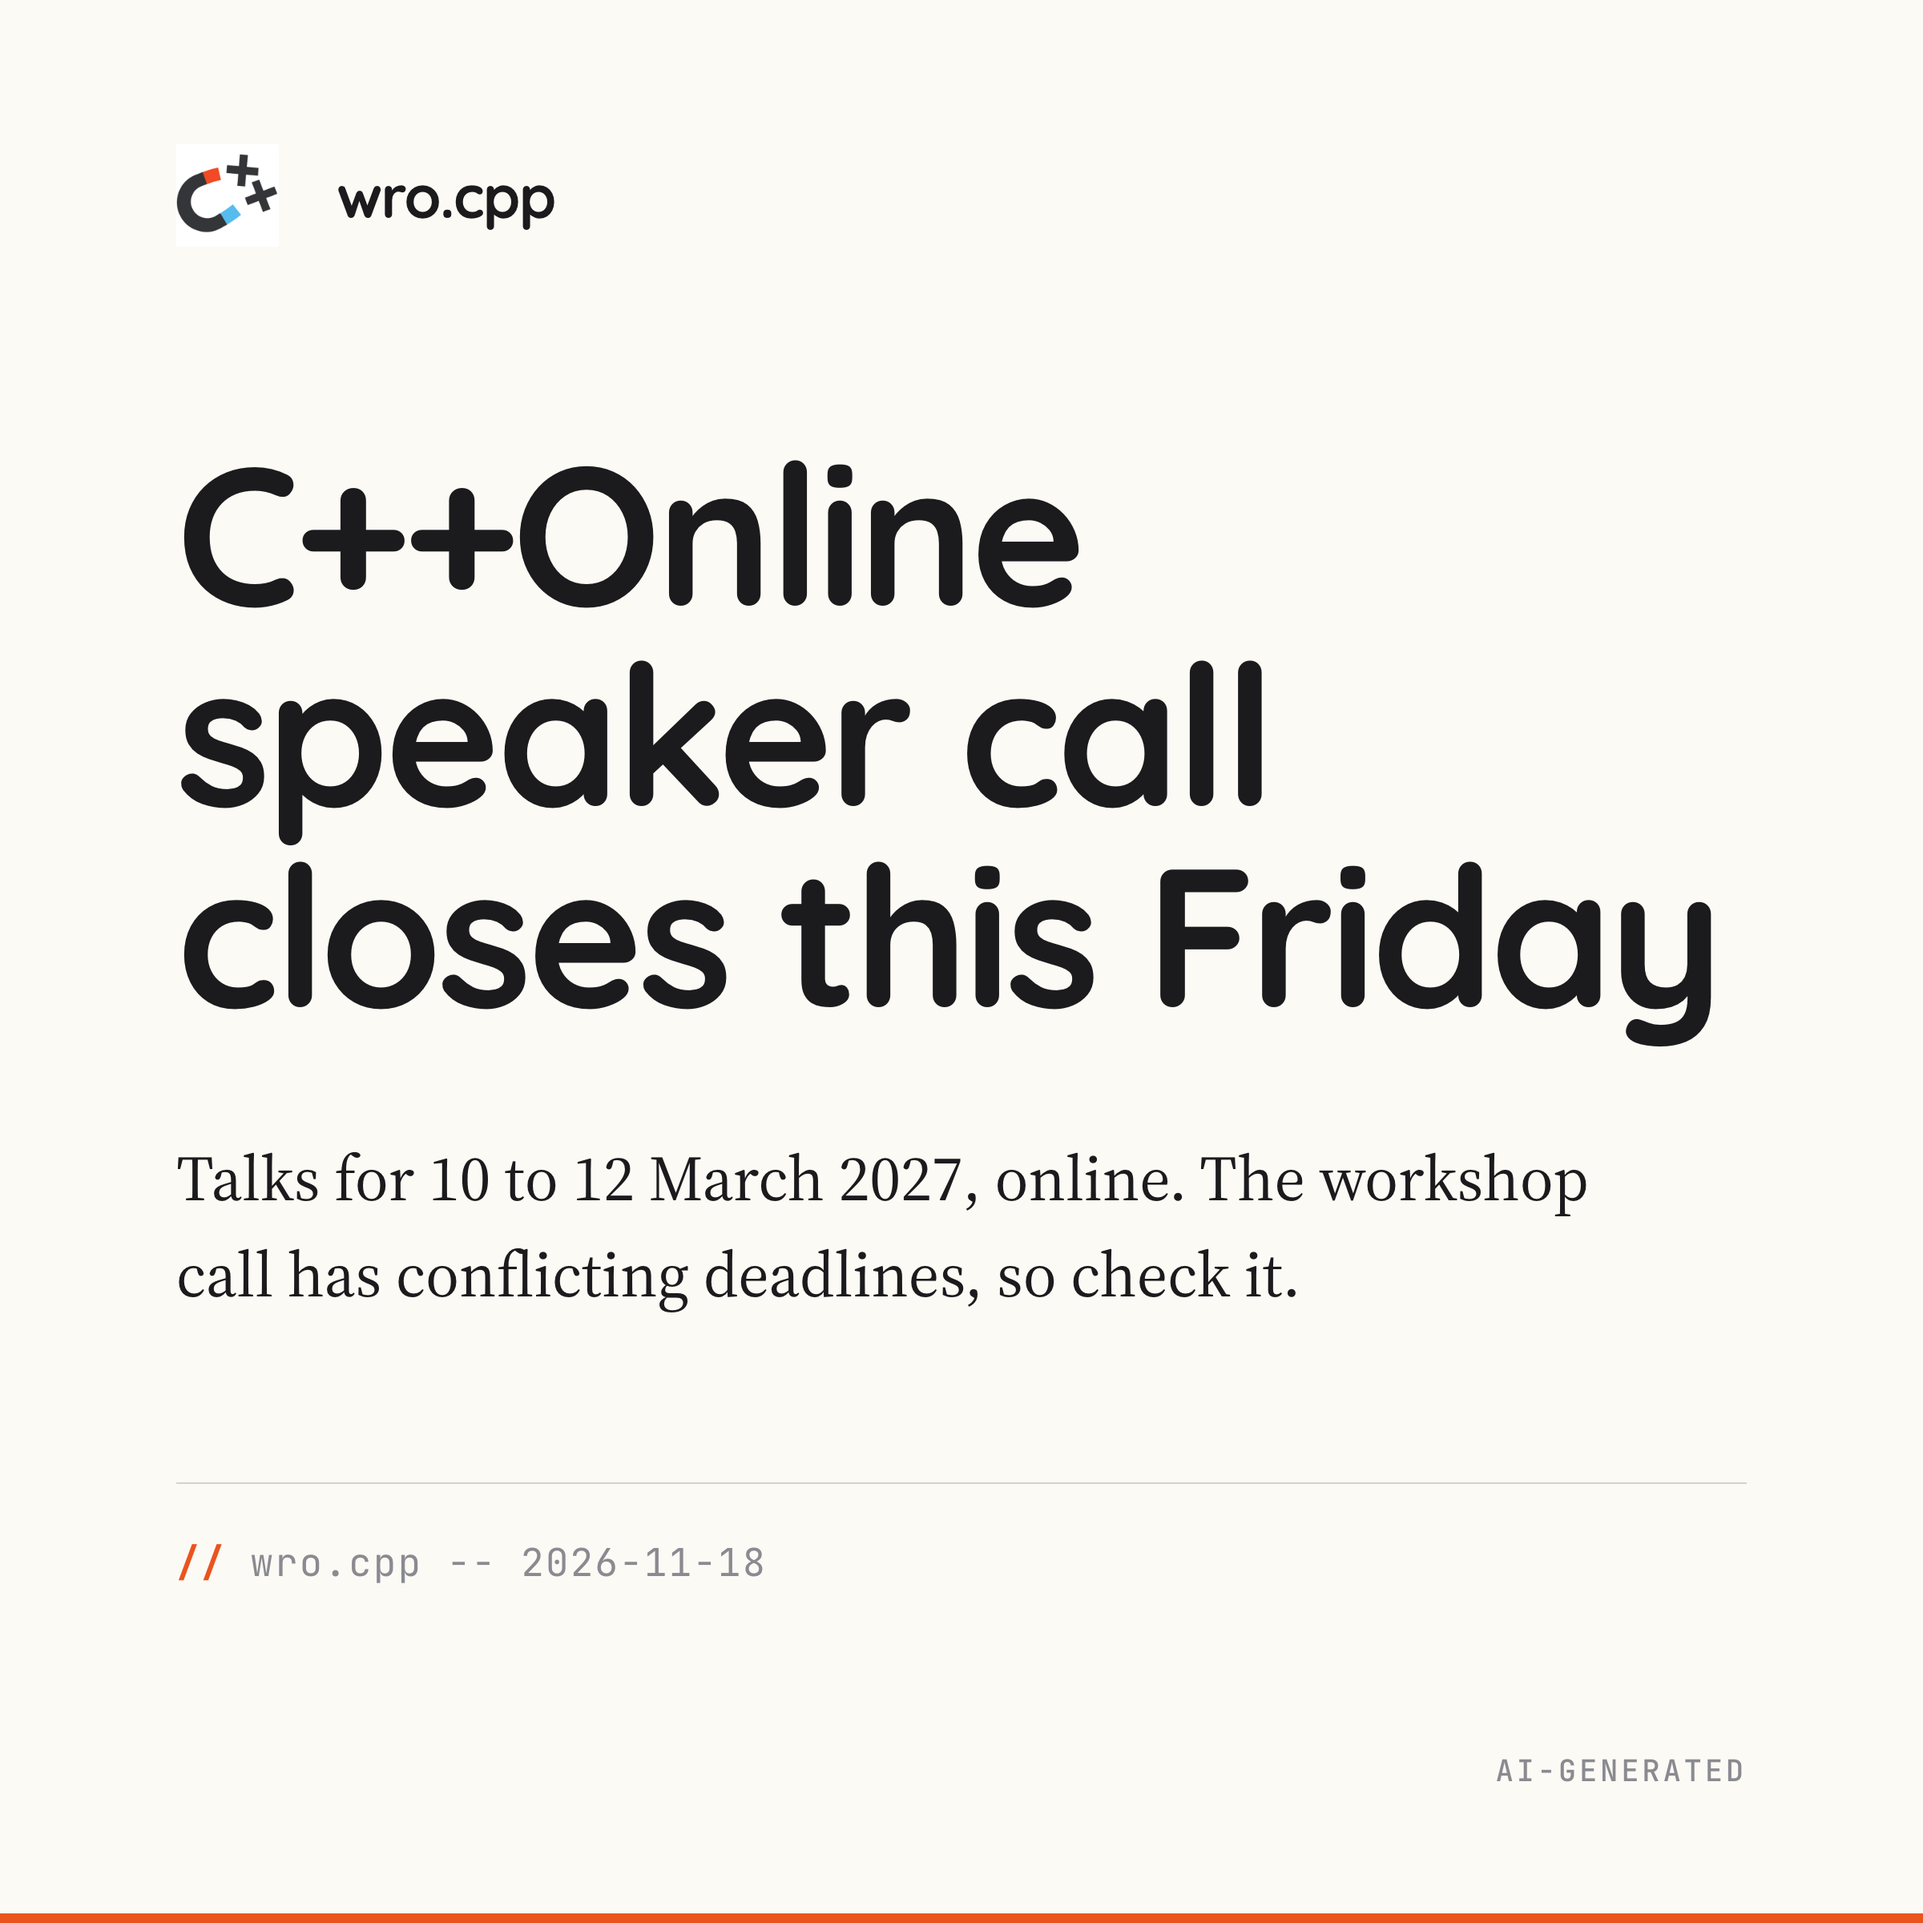
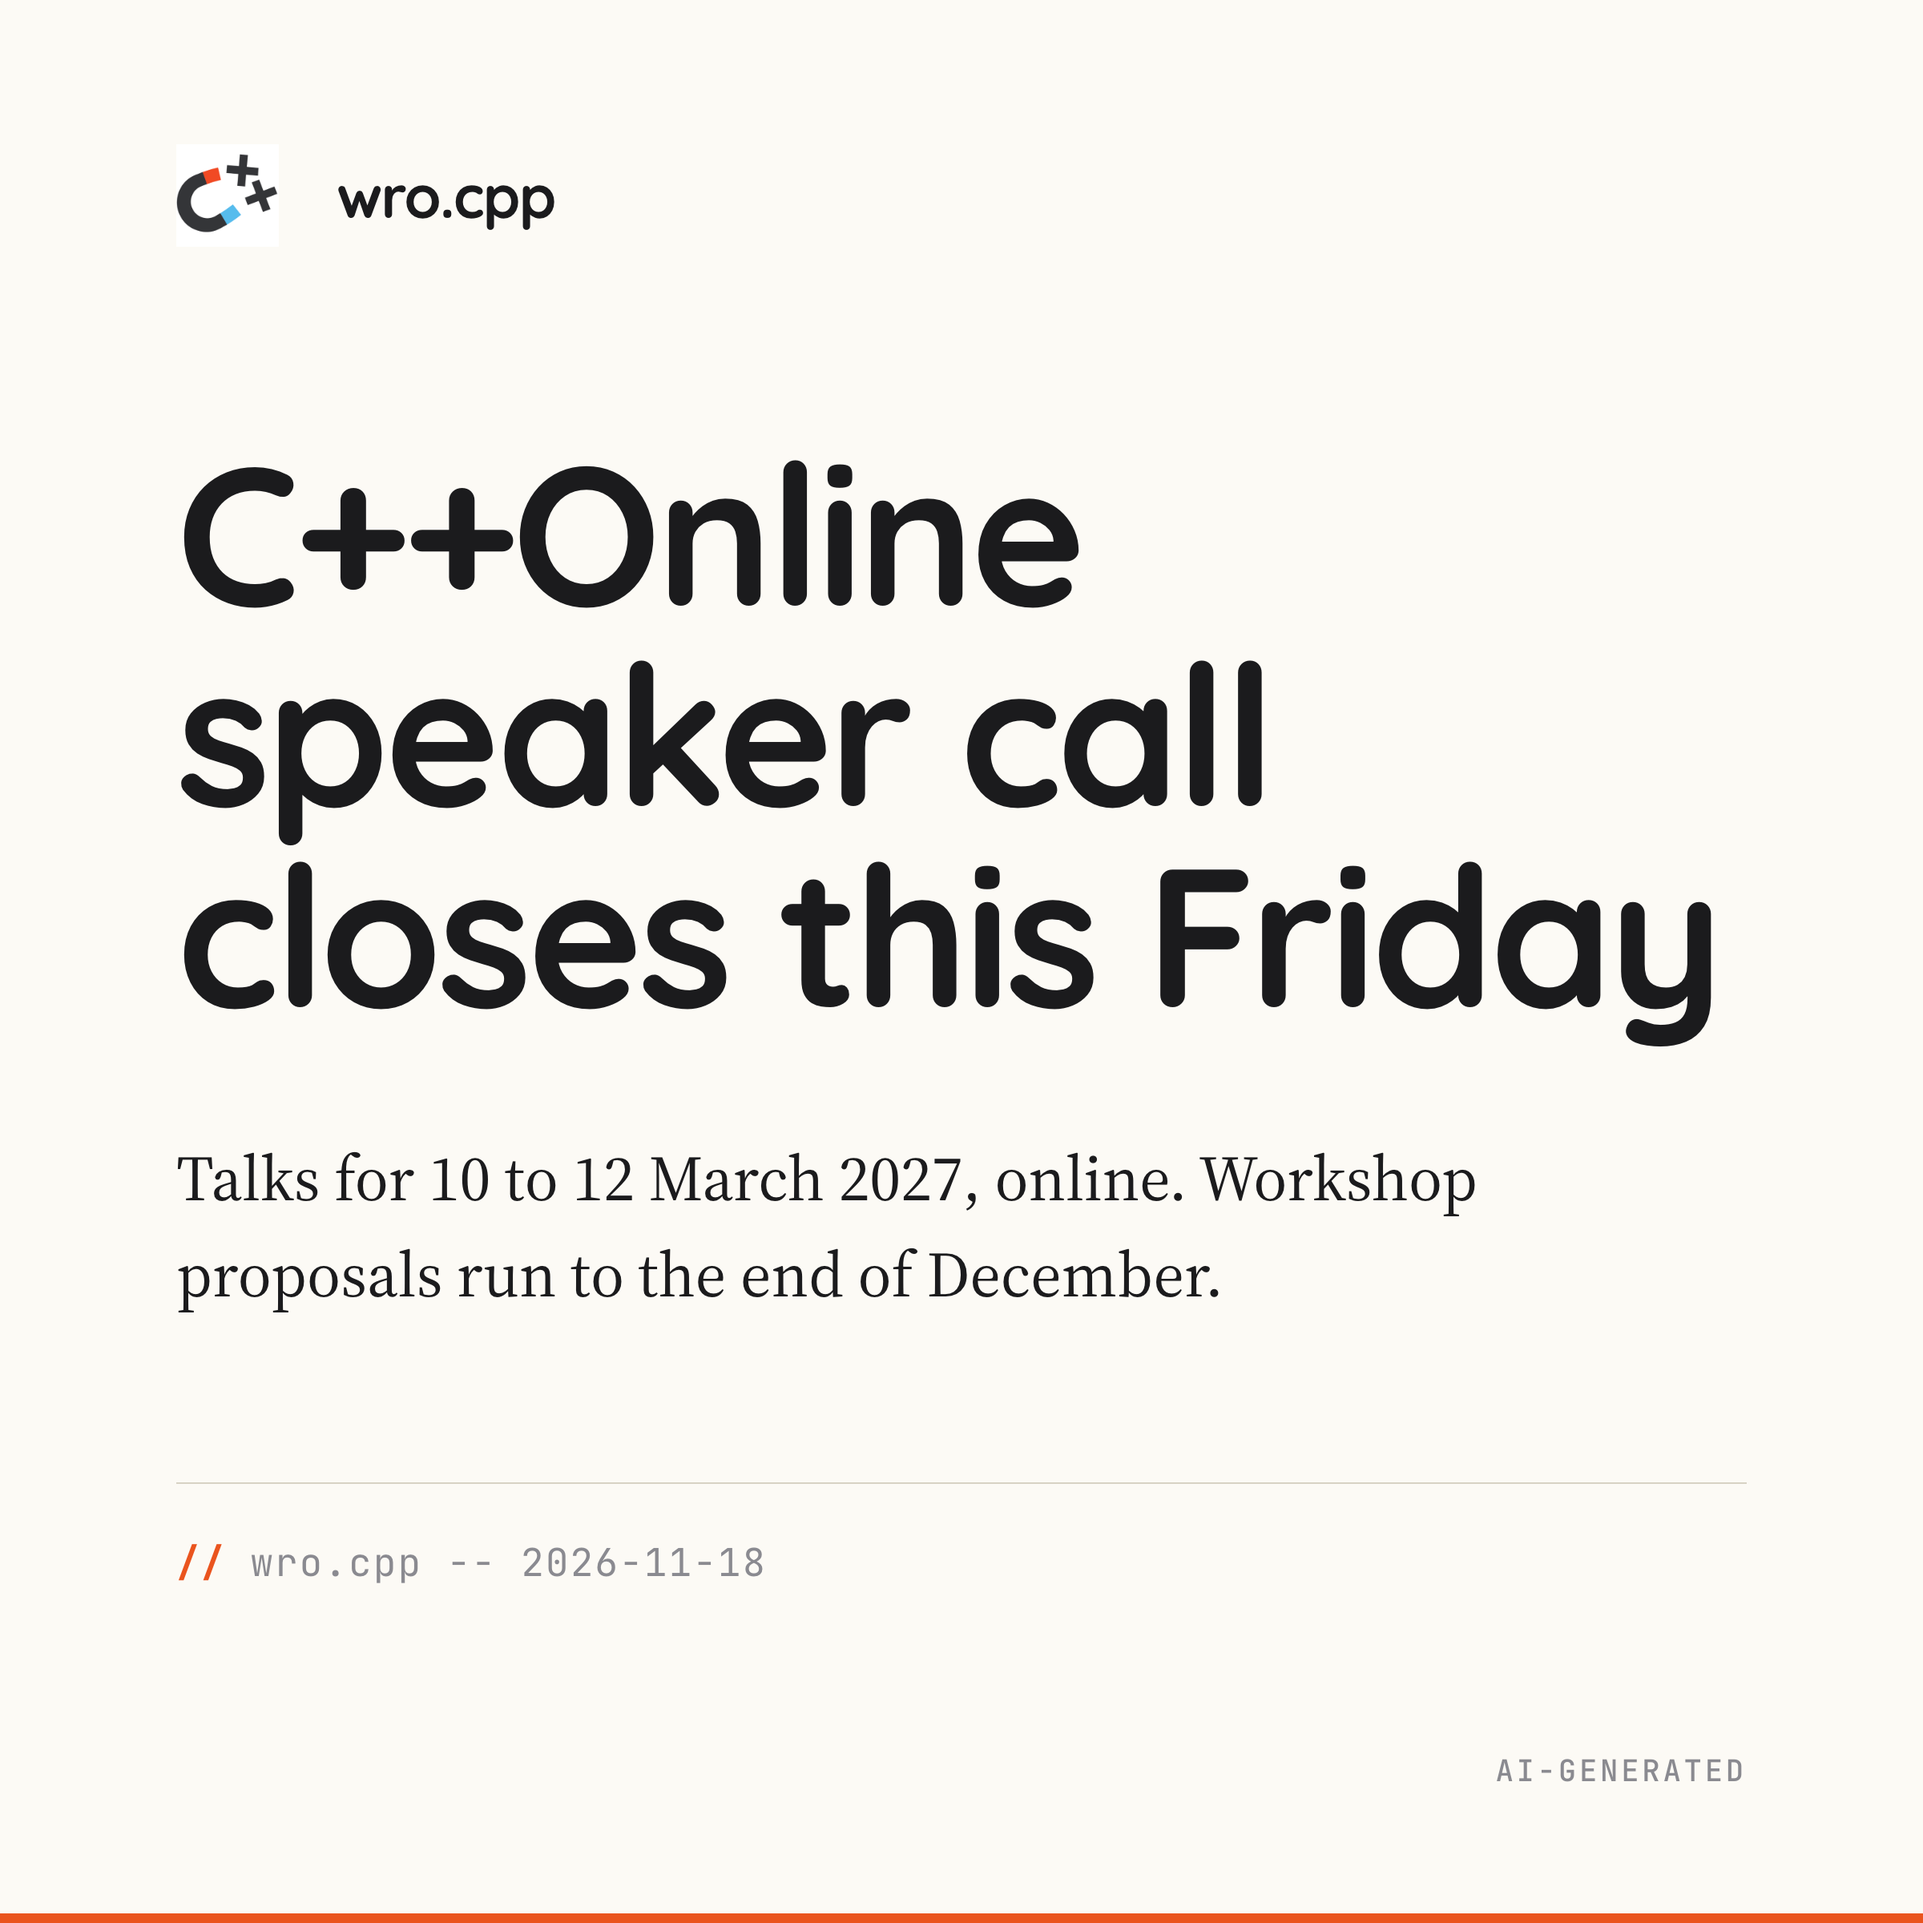
fix(post): the C++Online workshop call closes at the end of December
The owner confirmed that 20 November is the speaker deadline only. The
workshop graphic says the end of December; the call page lists 1 December
and the post says so. Captions and cards updated.

Claude-Session: https://claude.ai/code/session_01Ju4yEXENcZNaSNEQWEri2X

Changed region(s): [[0.0938, 0.6562, 0.6562, 0.6875], [0.625, 0.5938, 0.8125, 0.625]]

diff --git a/social/facebook/cpponline-2027-call-for-speakers/index.html b/social/facebook/cpponline-2027-call-for-speakers/index.html
@@ -23,6 +23,6 @@
   </defs>
 </svg>
 
-<section class="card card-insight dark"><div class="grid-bg"></div><div class="glow"></div><div class="insight-content"><h1>C++Online speaker call closes this Friday</h1><p>Talks for 10 to 12 March 2027, online. The workshop call has conflicting deadlines, so check it.</p><div class="insight-citation">wro.cpp -- 2026-11-18</div></div><div class="logo-watermark top-left"><svg viewBox="0 0 512 512" aria-hidden="true"><use href="#scudo-logo"/></svg><span class="logo-wordmark">ScudoAI</span></div><div class="ai-badge">AI-generated</div></section>
+<section class="card card-insight dark"><div class="grid-bg"></div><div class="glow"></div><div class="insight-content"><h1>C++Online speaker call closes this Friday</h1><p>Talks for 10 to 12 March 2027, online. Workshop proposals run to the end of December.</p><div class="insight-citation">wro.cpp -- 2026-11-18</div></div><div class="logo-watermark top-left"><svg viewBox="0 0 512 512" aria-hidden="true"><use href="#scudo-logo"/></svg><span class="logo-wordmark">ScudoAI</span></div><div class="ai-badge">AI-generated</div></section>
 </body>
 </html>

diff --git a/social/linkedin/cpponline-2027-call-for-speakers/index.html b/social/linkedin/cpponline-2027-call-for-speakers/index.html
@@ -23,6 +23,6 @@
   </defs>
 </svg>
 
-<section class="card card-insight dark"><div class="grid-bg"></div><div class="glow"></div><div class="insight-content"><h1>C++Online speaker call closes this Friday</h1><p>Talks for 10 to 12 March 2027, online. The workshop call has conflicting deadlines, so check it.</p><div class="insight-citation">wro.cpp -- 2026-11-18</div></div><div class="logo-watermark top-left"><svg viewBox="0 0 512 512" aria-hidden="true"><use href="#scudo-logo"/></svg><span class="logo-wordmark">ScudoAI</span></div><div class="ai-badge">AI-generated</div></section>
+<section class="card card-insight dark"><div class="grid-bg"></div><div class="glow"></div><div class="insight-content"><h1>C++Online speaker call closes this Friday</h1><p>Talks for 10 to 12 March 2027, online. Workshop proposals run to the end of December.</p><div class="insight-citation">wro.cpp -- 2026-11-18</div></div><div class="logo-watermark top-left"><svg viewBox="0 0 512 512" aria-hidden="true"><use href="#scudo-logo"/></svg><span class="logo-wordmark">ScudoAI</span></div><div class="ai-badge">AI-generated</div></section>
 </body>
 </html>

diff --git a/social/linkedin/cpponline-2027-call-for-speakers/caption.md b/social/linkedin/cpponline-2027-call-for-speakers/caption.md
@@ -5,7 +5,7 @@ The call for speakers for C++Online 2027 closes this Friday, 20 November 2026. T
 
 Talks are 30, 60 or 90 minutes, livestreamed and available on demand, and pre-recorded talks are accepted. The organisers asked their community partners to pass the reminder on, so here it is.
 
-One thing to check if you plan a workshop. The organisers' message says that call also closes on 20 November. Its page lists 1 December and the organisers' graphic says the end of December. I cannot tell which is current, so I would treat 20 November as the date.
+The deadline for workshop and training proposals is later, at the end of December. The 20 November date is for talks only.
 
 https://wrocpp.github.io/posts/cpponline-2027-call-for-speakers/
 
@@ -13,7 +13,7 @@ https://wrocpp.github.io/posts/cpponline-2027-call-for-speakers/
 #cpp #cplusplus #cpponline #callforspeakers #wrocpp
 
 ## Alt-text
-wro.cpp card with the magnet logo. Headline reads "C++Online speaker call closes this Friday" with a subtitle giving the conference dates, 10 to 12 March 2027, online, and noting that the workshop call has conflicting deadlines. Citation footer: wro.cpp, 2026-11-19.
+wro.cpp card with the magnet logo. Headline reads "C++Online speaker call closes this Friday" with a subtitle giving the conference dates, 10 to 12 March 2027, online, and noting that workshop proposals run to the end of December. Citation footer: wro.cpp, 2026-11-19.
 
 ## Suggested post time
 Wednesday 2026-11-18, 16:00 UTC

diff --git a/social/facebook/cpponline-2027-call-for-speakers/caption.md b/social/facebook/cpponline-2027-call-for-speakers/caption.md
@@ -1,7 +1,7 @@
 # C++Online 2027 call for speakers closes on Friday 20 November
 
 ## Body
-The C++Online 2027 call for speakers closes this Friday, 20 November. The conference is online, 10 to 12 March 2027, with talks of 30, 60 or 90 minutes. The workshop call has conflicting deadlines (20 November, 1 December, end of December), so check its page before you plan around any of them.
+The C++Online 2027 call for speakers closes this Friday, 20 November. The conference is online, 10 to 12 March 2027, with talks of 30, 60 or 90 minutes. Workshop and training proposals have until the end of December.
 
 https://wrocpp.github.io/posts/cpponline-2027-call-for-speakers/
 
@@ -9,7 +9,7 @@ https://wrocpp.github.io/posts/cpponline-2027-call-for-speakers/
 #cpp #cpponline #callforspeakers #wrocpp
 
 ## Alt-text
-wro.cpp card with the magnet logo. Headline reads "C++Online speaker call closes this Friday" with a subtitle giving the conference dates, 10 to 12 March 2027, online, and noting that the workshop call has conflicting deadlines. Citation footer: wro.cpp, 2026-11-19.
+wro.cpp card with the magnet logo. Headline reads "C++Online speaker call closes this Friday" with a subtitle giving the conference dates, 10 to 12 March 2027, online, and noting that workshop proposals run to the end of December. Citation footer: wro.cpp, 2026-11-19.
 
 ## Suggested post time
 Wednesday 2026-11-18, 16:00 UTC

diff --git a/social/facebook/cpponline-2027-call-for-speakers/content.md b/social/facebook/cpponline-2027-call-for-speakers/content.md
@@ -6,7 +6,7 @@ template: social/linkedin-post
 
 :::insight{citation="wro.cpp -- 2026-11-18"}
 # C++Online speaker call closes this Friday
-Talks for 10 to 12 March 2027, online. The workshop call has conflicting deadlines, so check it.
+Talks for 10 to 12 March 2027, online. Workshop proposals run to the end of December.
 :::
 
 ::::

diff --git a/social/linkedin/cpponline-2027-call-for-speakers/content.md b/social/linkedin/cpponline-2027-call-for-speakers/content.md
@@ -6,7 +6,7 @@ template: social/linkedin-post
 
 :::insight{citation="wro.cpp -- 2026-11-18"}
 # C++Online speaker call closes this Friday
-Talks for 10 to 12 March 2027, online. The workshop call has conflicting deadlines, so check it.
+Talks for 10 to 12 March 2027, online. Workshop proposals run to the end of December.
 :::
 
 ::::
